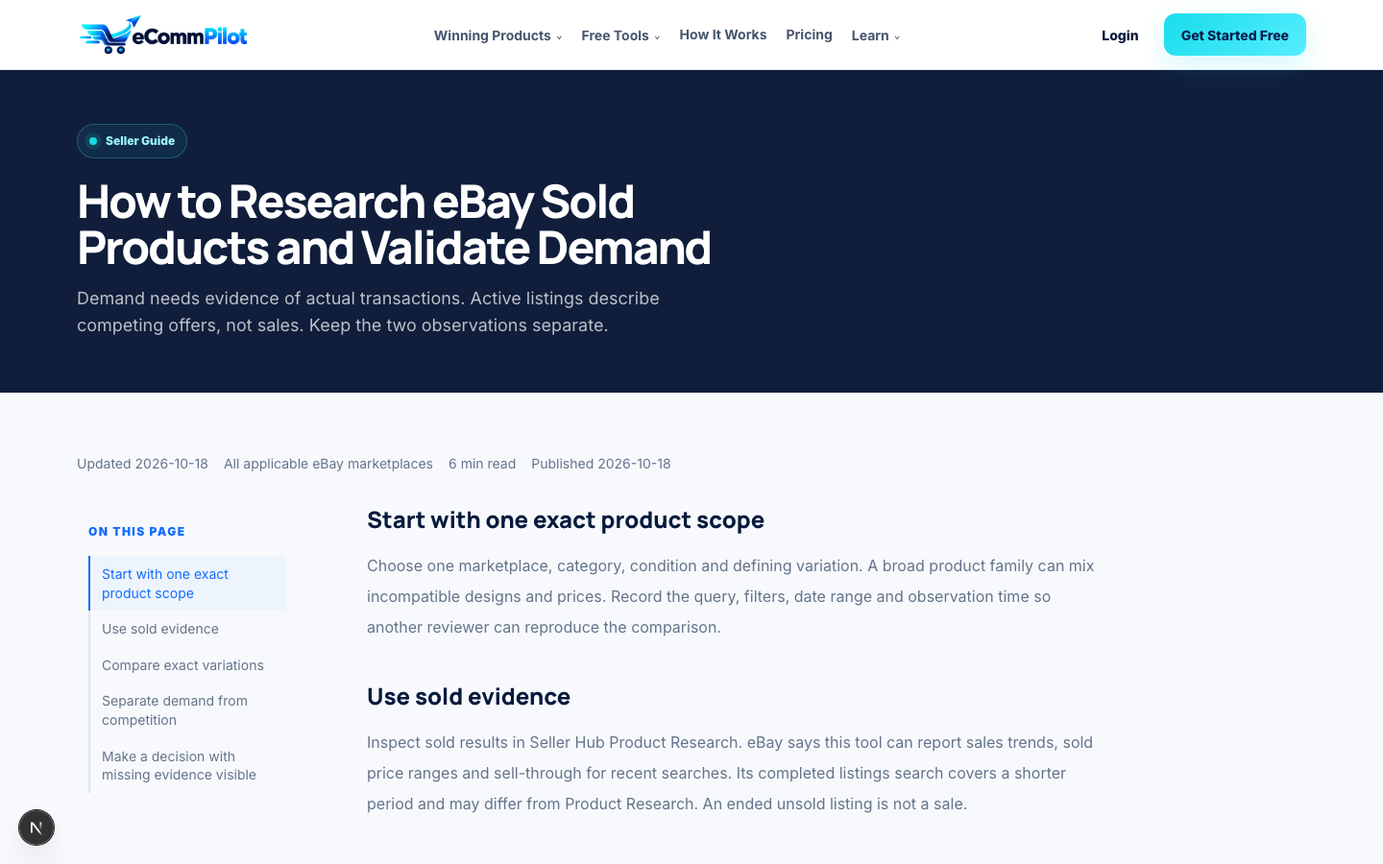
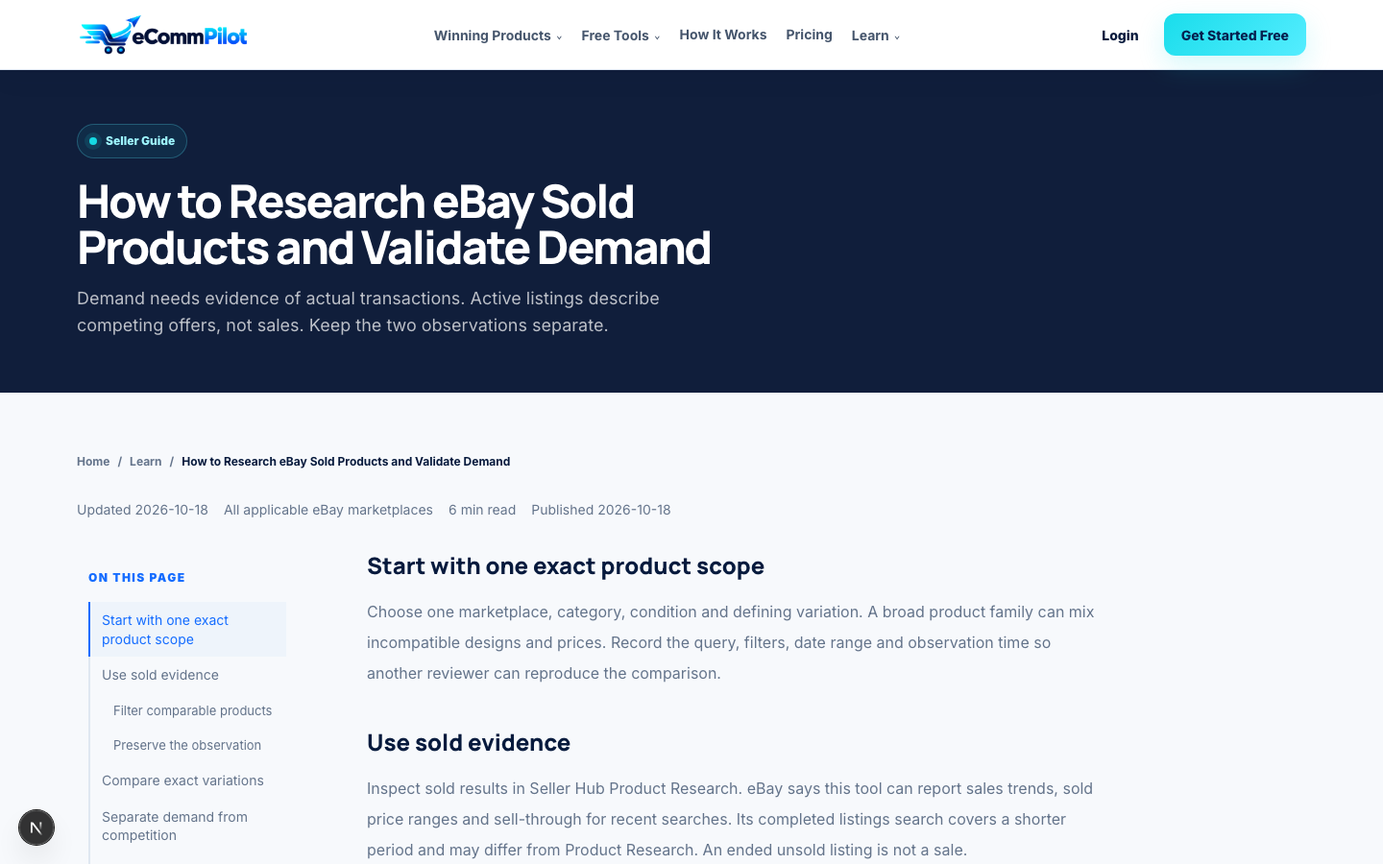
Complete tool guidance and deepen review articles

diff --git a/src/content/growth-guides.ts b/src/content/growth-guides.ts
@@ -8,12 +8,13 @@ export type GrowthGuide = {
   datePublished?: string;
   dateModified: string;
   lead: string;
-  sections: { heading: string; paragraphs: string[]; bullets?: string[] }[];
+  sections: { heading: string; paragraphs: string[]; bullets?: string[]; subsections?: { heading: string; paragraphs: string[] }[]; table?: { caption: string; headers: string[]; rows: string[][] } }[];
   tools: { label: string; href: string }[];
   sources: { label: string; url: string; checkedAt: string }[];
   screenshotRequirements: string[];
   topic: "Research" | "Suppliers" | "Economics";
   readingMinutes: number;
+  processFlow: string[];
 };
 
 // Only owner-approved guides with a genuine publication date may be published.
@@ -22,13 +23,13 @@ export const growthGuides: GrowthGuide[] = [
     slug: "research-ebay-sold-products",
     title: "How to Research eBay Sold Products and Validate Demand",
     description: "A practical evidence trail for sold results, comparable variations and demand checks in the eBay marketplace where you sell.",
-    primaryKeyword: "eBay sold product research", region: "All applicable eBay marketplaces", status: "review", dateModified: "2026-10-18", topic: "Research", readingMinutes: 6,
+    primaryKeyword: "eBay sold product research", region: "All applicable eBay marketplaces", status: "review", dateModified: "2026-10-18", topic: "Research", readingMinutes: 6, processFlow: ["Define exact market and variation", "Verify comparable sold evidence", "Record confidence and decision"],
     lead: "Demand needs evidence of actual transactions. Active listings describe competing offers, not sales. Keep the two observations separate.",
     sections: [
       { heading: "Start with one exact product scope", paragraphs: ["Choose one marketplace, category, condition and defining variation. A broad product family can mix incompatible designs and prices. Record the query, filters, date range and observation time so another reviewer can reproduce the comparison."] },
-      { heading: "Use sold evidence", paragraphs: ["Inspect sold results in Seller Hub Product Research. eBay says this tool can report sales trends, sold price ranges and sell-through for recent searches. Its completed listings search covers a shorter period and may differ from Product Research. An ended unsold listing is not a sale."] },
+      { heading: "Use sold evidence", paragraphs: ["Inspect sold results in Seller Hub Product Research. eBay says this tool can report sales trends, sold price ranges and sell-through for recent searches. Its completed listings search covers a shorter period and may differ from Product Research. An ended unsold listing is not a sale."], subsections: [{ heading: "Filter comparable products", paragraphs: ["Start with the target category, condition, buyer market and any reliable product identifier. Review individual results to exclude accessories, bundles and different designs. Keep a reason for each exclusion rather than silently changing the count."] }, { heading: "Preserve the observation", paragraphs: ["Save a permitted source reference, the search terms, filters, time window and observed time. If a result cannot be reproduced or its variation is unclear, record that limitation beside the demand conclusion."] }] },
       { heading: "Compare exact variations", paragraphs: ["A parent listing can contain different colors, sizes or designs. Attribute sales to the intended variant only where evidence permits it. If the exact variant cannot be resolved, mark the demand result uncertain."] },
-      { heading: "Separate demand from competition", paragraphs: ["Active offers can help evaluate competition, price and delivery. They cannot supply a sold count. Compare the same market, product identity and condition."] },
+      { heading: "Separate demand from competition", paragraphs: ["Active offers can help evaluate competition, price and delivery. They cannot supply a sold count. Compare the same market, product identity and condition.", "Illustrative review: a product family has several active offers, but the sold view does not expose which design sold. You can describe the competitive offers; you cannot claim verified demand for your exact design. Hold that demand input incomplete until better evidence is available."], table: { caption: "Evidence types and the conclusion each supports", headers: ["Observation", "Useful for", "Cannot prove"], rows: [["Comparable sold result", "Past transaction for a comparable item", "Future sales for your listing"], ["Active listing", "Current offer and price context", "A completed sale"], ["Parent listing with hidden variant", "Product-family activity", "Demand for one exact design"]] } },
       { heading: "Make a decision with missing evidence visible", paragraphs: ["Record the sold count or range, period, source, observation time and confidence. When trustworthy sold evidence is unavailable, leave the demand check incomplete. Do not replace it with active listing volume or an AI estimate."], bullets: ["Fix the target market and exact variant.", "Save the filters and observed date.", "Inspect comparable sold results.", "Record uncertainty and exclusions.", "Review active offers separately.", "Recheck before listing."] },
     ],
     tools: [{ label: "Sell-through calculator", href: "/free-tools/ebay-sell-through-rate-calculator" }],
@@ -39,11 +40,11 @@ export const growthGuides: GrowthGuide[] = [
     slug: "verify-aliexpress-supplier-variations",
     title: "How to Verify a Supplier and Match Product Variations for eBay",
     description: "Check exact variant identity, destination-specific shipping and eBay sourcing policy before relying on a supplier offer.",
-    primaryKeyword: "match AliExpress product variations for eBay", region: "All applicable eBay marketplaces", status: "review", dateModified: "2026-10-18", topic: "Suppliers", readingMinutes: 7,
+    primaryKeyword: "match AliExpress product variations for eBay", region: "All applicable eBay marketplaces", status: "review", dateModified: "2026-10-18", topic: "Suppliers", readingMinutes: 7, processFlow: ["Define exact eBay product", "Match supplier variant and destination", "Review policy and recheck"],
     lead: "A supplier offer is useful only when it matches the item researched and can be fulfilled under the seller's stated terms. Similar titles and thumbnails are weak evidence.",
     sections: [
       { heading: "Define the exact item first", paragraphs: ["Record size, material, design, pack quantity and defining item specifics from the eBay-side research. A parent listing may group distinct products; a supplier page may also contain several variants."] },
-      { heading: "Build a variation match table", paragraphs: ["Compare the researched item with the supplier variant selector, image, attributes, price and SKU where shown. Flag every mismatch. A different pack count or design can change listing accuracy and economics."] },
+      { heading: "Build a variation match table", paragraphs: ["Compare the researched item with the supplier variant selector, image, attributes, price and SKU where shown. Flag every mismatch. A different pack count or design can change listing accuracy and economics."], table: { caption: "Illustrative verification record; fill with your own observed facts", headers: ["Field", "eBay-side item", "Supplier-side check"], rows: [["Design", "Exact researched design", "Selected variant photo and label"], ["Size and pack quantity", "Item specifics and title", "Variant attributes and cart summary"], ["Destination", "Buyer market", "Shipping quote for the same market"]] }, subsections: [{ heading: "Compare defining identity fields", paragraphs: ["Put the eBay-side and supplier-side size, material, color, design and pack quantity side by side. A match on a parent product page is insufficient if the selected child variant differs."] }, { heading: "Handle an ambiguous selector", paragraphs: ["If the selector label and photo disagree or the SKU cannot be tied to the intended item, do not mark it verified. Seek another permitted evidence source or hold the product for review."] }] },
       { heading: "Check destination-specific fulfillment", paragraphs: ["Select the buyer destination and exact variant before recording item cost, shipping charge and delivery estimate. Save the observed time. A quote for one country or variant must not be copied to another."] },
       { heading: "Review supplier reliability", paragraphs: ["Examine store history, feedback, product reviews and order evidence in context. Reviews can refer to another variation. Missing evidence remains missing. Verify a standby supplier independently."] },
       { heading: "Check eBay's sourcing policy", paragraphs: ["eBay's dropshipping policy allows fulfillment from a wholesale supplier but says buying from another retailer or marketplace to ship directly to an eBay buyer is not allowed. A product match alone does not establish policy compliance. Review the actual sourcing relationship before listing."] },

diff --git a/src/config/tool-learning.ts b/src/config/tool-learning.ts
@@ -1,0 +1,57 @@
+export type ToolLearning = {
+  steps: readonly string[];
+  mistake: string;
+  faq: readonly { question: string; answer: string }[];
+  source: { label: string; href: string };
+};
+
+const feeSource = { label: "eBay US selling fees", href: "https://www.ebay.com/help/selling-fees/selling/selling-fees?id=4822" };
+const listingSource = { label: "eBay listing guidance", href: "https://www.ebay.com/help/selling/listings" };
+
+export const toolLearning: Record<string, ToolLearning> = {
+  "profit-margin-calculator": {
+    steps: ["Enter the actual listing price and one consistent currency.", "Add the exact supplier variant cost, destination shipping, applicable tax, fees and optional advertising assumptions.", "Read profit, margin and ROI separately; compare the estimate with actual order statements later."],
+    mistake: "Supplier shipping, buyer-paid shipping, fees on the full transaction and returns reserves are often omitted. Label any estimated input.",
+    faq: [{ question: "Is margin the same as ROI?", answer: "No. Margin divides profit by revenue; ROI divides profit by the chosen investment denominator. This tool uses landed supplier cost." }, { question: "Does the tool verify my fee rate?", answer: "No. Confirm your marketplace, category and seller terms before relying on the result." }], source: feeSource,
+  },
+  "title-length-checker": {
+    steps: ["Draft a truthful title for the exact product and variation.", "Check the displayed character count and remove repetition or vague words.", "Review brand, condition and item specifics against the item before listing."],
+    mistake: "A title can fit the character limit while still containing unsupported claims or the wrong variation.",
+    faq: [{ question: "Will a valid length improve ranking?", answer: "No. This tool only counts characters; it does not predict search placement." }, { question: "Does it verify listing policy?", answer: "No. Review the current rules in your eBay listing flow." }], source: listingSource,
+  },
+  "ebay-break-even-calculator": {
+    steps: ["Enter the exact product and fulfillment costs in one currency.", "Add the applicable percentage and fixed fee assumptions.", "Check the first currency increment that covers costs; add a separate profit target if you need one."],
+    mistake: "Break-even is not a recommended selling price. Advertising, refunds, returns and fee tiers can move the real threshold.",
+    faq: [{ question: "Does break-even include a profit target?", answer: "No. It identifies the entered-cost threshold. Choose a separate target profit." }, { question: "Why can the result be unavailable?", answer: "A 100% or greater entered fee rate cannot leave a finite positive amount after percentage fees." }], source: feeSource,
+  },
+  "ebay-promoted-listings-calculator": {
+    steps: ["Calculate the base order profit first.", "Enter an ad percentage or a known fixed advertising cost for the scenario.", "Compare before-ad and after-ad results; reconcile against real eBay advertising charges."],
+    mistake: "Different eBay ad products can use different charging and attribution rules. A hypothetical ad rate is not a forecast of traffic or sales.",
+    faq: [{ question: "Does this predict campaign results?", answer: "No. It shows the arithmetic effect of the ad-cost assumption you enter." }, { question: "Can an accepted Best Offer still incur an ad fee?", answer: "It can under applicable attribution rules. Check your current campaign terms." }], source: { label: "eBay Promoted Listings overview", href: "https://www.ebay.com/help/selling/promoted-listings/promoted-listings-standard?id=5295" },
+  },
+  "ebay-best-offer-calculator": {
+    steps: ["Enter the current listing price and the buyer's offer.", "Add costs, the applicable fee assumptions and the minimum profit you need.", "Compare the offer to the calculated floor before deciding in eBay."],
+    mistake: "A minimum acceptable offer is a financial threshold, not an automatic acceptance rule. Shipping, tax and ad fees may alter the result.",
+    faq: [{ question: "Will this accept or decline offers in eBay?", answer: "No. It is an independent planning tool." }, { question: "Can I counteroffer?", answer: "eBay's Best Offer flow may allow a counteroffer, subject to its current terms." }], source: { label: "eBay Best Offer guidance", href: "https://www.ebay.com/help/selling/listings/listing-basics?id=4144" },
+  },
+  "ebay-shipping-profit-calculator": {
+    steps: ["Use the same product price and fulfillment cost in both scenarios.", "Enter buyer-paid shipping only in the charged-shipping scenario.", "Compare net profit after any fee effect on the amount the buyer pays."],
+    mistake: "Charging shipping adds revenue but can also increase a percentage fee. Supplier freight and the postage paid to fulfill the order are costs in either scenario.",
+    faq: [{ question: "Is free shipping cost-free?", answer: "No. The seller still needs to fund the actual delivery cost." }, { question: "Does eBay charge fees on buyer-paid shipping?", answer: "Fee bases vary by market and category. Check the current local fee terms." }], source: feeSource,
+  },
+  "ebay-sell-through-rate-calculator": {
+    steps: ["Define the exact product, variation, marketplace and evidence period.", "Enter legitimately observed sold results and a comparable active count.", "Interpret the resulting ratio as one demand indicator, with source and observation date recorded separately."],
+    mistake: "Active listings are not sold units. Mixing variants or periods makes the comparison unreliable.",
+    faq: [{ question: "Does this fetch sold data?", answer: "No. It computes a ratio from counts you supply." }, { question: "Is this eBay's official sell-through metric?", answer: "No. It uses the stated sold divided by sold plus active definition; other tools may use another definition." }], source: { label: "eBay Product Research", href: "https://www.ebay.com/help/selling/selling-tools/product-research?id=4853" },
+  },
+  "ebay-image-resizer": {
+    steps: ["Choose an image you have permission to use.", "Set dimensions and format while preserving the product's truthful appearance.", "Download and inspect the result in the actual eBay listing editor."],
+    mistake: "Compression can blur labels or remove metadata, and JPEG cannot preserve transparency. Resizing does not grant image rights.",
+    faq: [{ question: "Are uploads sent to eCommPilot?", answer: "This tool processes the selected image in your browser." }, { question: "Does the tool guarantee eBay compliance?", answer: "No. Check the current image requirements and the final listing preview." }], source: { label: "eBay picture guidance", href: "https://www.ebay.com/help/selling/listings/creating-managing-listings/bulk-listings?id=4148" },
+  },
+  "ebay-html-description-cleaner": {
+    steps: ["Paste a description draft you are permitted to use.", "Review the cleaned markup and visible text before copying it.", "Paste into eBay's editor and inspect the published preview for accuracy and accessibility."],
+    mistake: "Sanitized HTML can still contain incorrect claims or missing product details. It is not a policy or compliance checker.",
+    faq: [{ question: "Does this preserve scripts and embeds?", answer: "No. The tool removes unsafe or unsupported markup using an allowlist." }, { question: "Does this publish a listing?", answer: "No. It only prepares text for manual review and use." }], source: listingSource,
+  },
+};

diff --git a/src/app/learn/[slug]/page.tsx b/src/app/learn/[slug]/page.tsx
@@ -9,7 +9,7 @@ import { breadcrumbSchema, articleSchema } from "@/lib/seo/schema";
 import { buildMetadata } from "@/lib/seo/metadata";
 import { getGrowthGuide, publishedGrowthGuides } from "@/content/growth-guides";
 import { ArticleToc } from "@/components/learn/article-toc";
-import { Callout, ScreenshotFrame } from "@/components/learn/content-blocks";
+import { Callout, ComparisonTable, ProcessFlow, ScreenshotFrame } from "@/components/learn/content-blocks";
 
 type Props = { params: Promise<{ slug: string }> };
 export const dynamicParams = false;
@@ -35,6 +35,7 @@ export default async function GrowthGuidePage({ params }: Props) {
   const guide = getGrowthGuide(slug);
   if (!guide || guide.status !== "published" || !guide.datePublished) notFound();
   const path = `/learn/${guide.slug}`;
+  const related = publishedGrowthGuides().filter((item) => item.slug !== guide.slug).slice(0, 3);
   return (
     <PageShell darkHeader>
       {guide.status === "published" && guide.datePublished ? (
@@ -68,7 +69,7 @@ export default async function GrowthGuidePage({ params }: Props) {
             <span>Published {guide.datePublished}</span>
           </div>
           <div className="article-layout">
-          <ArticleToc entries={guide.sections.map((section, index) => ({ id: `section-${index + 1}`, label: section.heading }))} />
+          <ArticleToc entries={guide.sections.flatMap((section, index) => [{ id: `section-${index + 1}`, label: section.heading, level: 2 as const }, ...(section.subsections ?? []).map((subsection, subIndex) => ({ id: `section-${index + 1}-${subIndex + 1}`, label: subsection.heading, level: 3 as const }))])} />
           <div className="article-content min-w-0">
           {guide.sections.map((section, index) => (
             <section id={`section-${index + 1}`} key={section.heading} className="mb-10">
@@ -76,6 +77,8 @@ export default async function GrowthGuidePage({ params }: Props) {
               {section.paragraphs.map((paragraph) => (
                 <p key={paragraph} className="mb-4 text-base leading-8 text-[var(--muted)]">{paragraph}</p>
               ))}
+              {section.subsections?.map((subsection, subIndex) => <div key={subsection.heading} className="mt-6"><h3 id={`section-${index + 1}-${subIndex + 1}`} className="mb-3 scroll-mt-24 text-xl font-bold text-[var(--navy)]">{subsection.heading}</h3>{subsection.paragraphs.map((paragraph) => <p key={paragraph} className="mb-4 text-base leading-8 text-[var(--muted)]">{paragraph}</p>)}</div>)}
+              {section.table ? <figure className="mb-6"><figcaption className="mb-3 text-sm font-semibold text-[var(--navy)]">{section.table.caption}</figcaption><ComparisonTable headers={section.table.headers} rows={section.table.rows} /></figure> : null}
               {section.bullets ? (
                 <ul className="mb-5 list-disc space-y-2 pl-6 text-base leading-7 text-[var(--muted)]">
                   {section.bullets.map((bullet) => <li key={bullet}>{bullet}</li>)}
@@ -83,7 +86,8 @@ export default async function GrowthGuidePage({ params }: Props) {
               ) : null}
             </section>
           ))}
-          <Callout kind="warning" title="Verify changing marketplace facts">Fee schedules, shipping terms and sourcing policies can change. Check the current local marketplace rules before acting.</Callout>
+          <ProcessFlow title="Research decision flow" stages={guide.processFlow} />
+          <div className="mt-6"><Callout kind="warning" title="Verify changing marketplace facts">Fee schedules, shipping terms and sourcing policies can change. Check the current local marketplace rules before acting.</Callout></div>
           <section className="mt-9">
             <h2 className="text-xl font-bold text-[var(--navy)]">Visual evidence</h2>
             {guide.screenshotRequirements.map((requirement) => <ScreenshotFrame key={requirement} alt={requirement} caption={requirement} />)}
@@ -111,6 +115,8 @@ export default async function GrowthGuidePage({ params }: Props) {
               The examples are educational. Fee schedules, shipping costs and marketplace policies can change. Check the rules for your own marketplace and seller account before acting.
             </p>
           </section>
+          {related.length > 0 ? <section className="mt-8 rounded-2xl border border-[var(--border)] bg-white p-6"><h2 className="text-xl font-bold text-[var(--navy)]">Related guides</h2><ul className="mt-3 grid gap-2">{related.map((item) => <li key={item.slug}><Link href={`/learn/${item.slug}`} className="font-semibold text-[var(--blue)] hover:underline">{item.title} →</Link></li>)}</ul></section> : null}
+          <div className="mt-8 flex flex-wrap gap-3"><Link href="/winning-products" className="button button-primary">Browse Winning Products</Link><Link href="/learn" className="button button-secondary">More seller guidance</Link></div>
           </div>
           </div>
         </div>

diff --git a/src/app/free-tools/[slug]/page.tsx b/src/app/free-tools/[slug]/page.tsx
@@ -1,3 +1,4 @@
+import { ToolLearning } from "@/components/tools/tool-learning";
 import type { Metadata } from "next";
 import Link from "next/link";
 import { notFound } from "next/navigation";
@@ -33,6 +34,7 @@ export default async function ToolPage({ params }: Props) {
     <section className="tool-page-body"><div className="site-container">
       {slug === "ebay-image-resizer" ? <ImageResizer /> : slug === "ebay-html-description-cleaner" ? <HtmlCleaner /> : <AdvancedCalculator slug={slug as Parameters<typeof AdvancedCalculator>[0]["slug"]} />}
       <ToolEditorial slug={slug} />
+      <ToolLearning slug={slug} />
       <div className="mt-10 grid gap-6 rounded-[24px] border border-[var(--border)] bg-white p-6 md:grid-cols-2 md:p-8"><div><h2 className="text-2xl font-extrabold text-[var(--navy)]">Related free tools</h2><div className="mt-4 flex flex-col gap-3">{tool.related.map((related) => { const item = getTool(related); return item ? <Link key={related} href={toolPath(related)} className="font-bold text-[var(--blue)] hover:underline">{item.title} →</Link> : null; })}</div></div><div><h2 className="text-2xl font-extrabold text-[var(--navy)]">Take the next step</h2><p className="mt-3 text-sm leading-7 text-[var(--muted)]">Explore seller guidance and published Winning Products for your market. Product availability reflects the live public catalogue.</p><div className="mt-5 flex flex-wrap gap-3"><Link href="/winning-products" className="button button-primary">Browse Winning Products</Link><Link href="/learn" className="button button-secondary">Seller guides</Link></div></div></div>
     </div></section>
   </PageShell>;

diff --git a/src/components/tools/tool-learning.tsx b/src/components/tools/tool-learning.tsx
@@ -1,0 +1,13 @@
+import { Checklist, Faq } from "@/components/learn/content-blocks";
+import { toolLearning } from "@/config/tool-learning";
+
+export function ToolLearning({ slug }: { slug: string }) {
+  const data = toolLearning[slug];
+  if (!data) return null;
+  return <div className="mt-10 grid min-w-0 grid-cols-[minmax(0,1fr)] gap-5">
+    <section className="feature-card min-w-0"><h2 className="text-2xl font-extrabold text-[var(--navy)]">How to use this tool</h2><div className="mt-4 text-sm leading-7 text-[var(--muted)]"><Checklist items={data.steps} /></div></section>
+    <section className="feature-card min-w-0"><h2 className="text-2xl font-extrabold text-[var(--navy)]">Common mistake</h2><p className="mt-4 text-sm leading-7 text-[var(--muted)]">{data.mistake}</p></section>
+    <section className="feature-card min-w-0"><h2 className="text-2xl font-extrabold text-[var(--navy)]">Questions sellers ask</h2><div className="mt-4"><Faq items={data.faq} /></div></section>
+    <p className="text-xs text-[var(--muted)]">Official reference checked 18 October 2026: <a href={data.source.href} className="text-[var(--blue)] underline">{data.source.label}</a>. Recheck your own market and account terms before acting.</p>
+  </div>;
+}

diff --git a/src/components/learn/content-blocks.tsx b/src/components/learn/content-blocks.tsx
@@ -23,3 +23,6 @@ export function ScreenshotFrame({ caption, alt, src }: { caption: string; alt: s
 export function RelatedLinks({ title, links }: { title: string; links: readonly { label: string; href: string }[] }) {
   return <aside className="feature-card"><h2 className="text-xl font-bold text-[var(--navy)]">{title}</h2><ul className="mt-3 grid gap-2">{links.map((link) => <li key={link.href}><Link href={link.href} className="font-semibold text-[var(--blue)] hover:underline">{link.label} →</Link></li>)}</ul></aside>;
 }
+export function ProcessFlow({ title, stages }: { title: string; stages: readonly string[] }) {
+  return <figure className="rounded-2xl border border-[var(--border)] bg-white p-6"><figcaption className="mb-4 text-lg font-bold text-[var(--navy)]">{title}</figcaption><ol className="grid gap-3 sm:grid-cols-3">{stages.map((stage, index) => <li key={stage} className="rounded-xl border border-[var(--border)] bg-[var(--surface-soft)] p-4 text-sm font-semibold text-[var(--navy)]"><span className="mb-2 block text-xs font-extrabold text-[var(--blue)]">STEP {index + 1}</span>{stage}</li>)}</ol></figure>;
+}

diff --git a/src/components/learn/article-toc.tsx b/src/components/learn/article-toc.tsx
@@ -2,7 +2,7 @@
 
 import { useEffect, useRef, useState } from "react";
 
-type Entry = { id: string; label: string };
+type Entry = { id: string; label: string; level?: 2 | 3 };
 
 export function ArticleToc({ entries }: { entries: readonly Entry[] }) {
   const [active, setActive] = useState(entries[0]?.id ?? "");
@@ -44,7 +44,7 @@ export function ArticleToc({ entries }: { entries: readonly Entry[] }) {
 
   const links = entries.map((entry) => (
     <a key={entry.id} href={`#${entry.id}`} aria-current={active === entry.id ? "location" : undefined}
-      className={`toc-link ${active === entry.id ? "toc-link-active" : ""}`}
+      className={`toc-link ${entry.level === 3 ? "toc-link-nested" : ""} ${active === entry.id ? "toc-link-active" : ""}`}
       onClick={() => setOpen(false)}>{entry.label}</a>
   ));
 

diff --git a/src/app/globals.css b/src/app/globals.css
@@ -996,3 +996,5 @@ textarea.catalog-input {
 .content-callout-pro { border-color:var(--deep-blue); }
 @media(max-width:900px) { .article-layout { display:block; } .article-toc-desktop { display:none; } .article-toc-trigger { display:flex; position:fixed; right:18px; bottom:18px; z-index:60; gap:8px; align-items:center; padding:12px 16px; border-radius:999px; background:var(--navy); color:white; box-shadow:0 8px 28px rgba(7,26,61,.25); } }
 @media(prefers-reduced-motion:reduce) { html { scroll-behavior:auto; } }
+
+.toc-link-nested { padding-left:24px; font-size:13px; }

diff --git a/src/app/free-tools/profit-margin-calculator/page.tsx b/src/app/free-tools/profit-margin-calculator/page.tsx
@@ -1,3 +1,4 @@
+import { ToolLearning } from "@/components/tools/tool-learning";
 import type { Metadata } from "next";
 import { PageShell } from "@/components/site/page-shell";
 import { ProfitMarginCalculator } from "@/components/tools/ep11-calculators";
@@ -39,6 +40,7 @@ export default function Page() {
         <div className="site-container">
           <ProfitMarginCalculator />
           <ToolEditorial slug="profit-margin-calculator" />
+          <ToolLearning slug="profit-margin-calculator" />
         </div>
       </section>
     </PageShell>

diff --git a/src/app/free-tools/title-length-checker/page.tsx b/src/app/free-tools/title-length-checker/page.tsx
@@ -1,3 +1,4 @@
+import { ToolLearning } from "@/components/tools/tool-learning";
 import type { Metadata } from "next";
 import { PageShell } from "@/components/site/page-shell";
 import { TitleLengthChecker } from "@/components/tools/ep11-calculators";
@@ -38,6 +39,7 @@ export default function Page() {
         <div className="site-container">
           <TitleLengthChecker />
           <ToolEditorial slug="title-length-checker" />
+          <ToolLearning slug="title-length-checker" />
         </div>
       </section>
     </PageShell>

diff --git a/docs/EDITORIAL_ROADMAP.md b/docs/EDITORIAL_ROADMAP.md
@@ -4,23 +4,23 @@ Qualitative proposals checked 2026-10-18. Search volume and difficulty are unava
 
 | Priority | Article | Reader and distinct intent | Evidence needed | Preparation |
 |---|---|---|---|---|
-| 1 | Ebay sold product research | eBay seller; sold-demand research guidance | Official source review, real example and relevant screenshots | Medium |
-| 2 | Match aliexpress product variations for ebay | eBay seller; supplier variation verification guidance | Official source review, real example and relevant screenshots | Medium |
-| 3 | Ebay dropshipping policy wholesale supplier | eBay seller; sourcing policy guidance | Official source review, real example and relevant screenshots | Medium |
-| 4 | Ebay active listings versus sold items | eBay seller; evidence distinction guidance | Official source review, real example and relevant screenshots | Medium |
-| 5 | How to match ebay item specifics | eBay seller; listing accuracy guidance | Official source review, real example and relevant screenshots | Medium |
+| 1 | eBay sold product research | eBay seller; sold-demand research guidance | Official source review, real example and relevant screenshots | Medium |
+| 2 | Match AliExpress product variations for eBay | eBay seller; supplier variation verification guidance | Official source review, real example and relevant screenshots | Medium |
+| 3 | eBay dropshipping policy wholesale supplier | eBay seller; sourcing policy guidance | Official source review, real example and relevant screenshots | Medium |
+| 4 | eBay active listings versus sold items | eBay seller; evidence distinction guidance | Official source review, real example and relevant screenshots | Medium |
+| 5 | How to match eBay item specifics | eBay seller; listing accuracy guidance | Official source review, real example and relevant screenshots | Medium |
 | 6 | How to validate supplier shipping to buyers | eBay seller; supplier shipping guidance | Official source review, real example and relevant screenshots | Medium |
-| 7 | How to compare ebay product variations | eBay seller; variation research guidance | Official source review, real example and relevant screenshots | Medium |
-| 8 | Ebay listing photos rights | eBay seller; image rights guidance | Official source review, real example and relevant screenshots | Medium |
+| 7 | How to compare eBay product variations | eBay seller; variation research guidance | Official source review, real example and relevant screenshots | Medium |
+| 8 | eBay listing photos rights | eBay seller; image rights guidance | Official source review, real example and relevant screenshots | Medium |
 | 9 | How to monitor supplier price changes | eBay seller; supplier monitoring guidance | Official source review, real example and relevant screenshots | Medium |
-| 10 | How to review ebay delivery promises | eBay seller; delivery promises guidance | Official source review, real example and relevant screenshots | Medium |
-| 11 | Ebay product research mistakes | eBay seller; research education guidance | Official source review, real example and relevant screenshots | Medium |
-| 12 | How to record actual ebay order profit | eBay seller; order operations guidance | Official source review, real example and relevant screenshots | Medium |
-| 13 | Ebay product demand seasonality | eBay seller; seasonality guidance | Official source review, real example and relevant screenshots | Medium |
-| 14 | Ebay seller returns planning | eBay seller; returns operations guidance | Official source review, real example and relevant screenshots | Medium |
-| 15 | Ebay title optimization | eBay seller; listing education guidance | Official source review, real example and relevant screenshots | Medium |
+| 10 | How to review eBay delivery promises | eBay seller; delivery promises guidance | Official source review, real example and relevant screenshots | Medium |
+| 11 | eBay product research mistakes | eBay seller; research education guidance | Official source review, real example and relevant screenshots | Medium |
+| 12 | How to record actual eBay order profit | eBay seller; order operations guidance | Official source review, real example and relevant screenshots | Medium |
+| 13 | eBay product demand seasonality | eBay seller; seasonality guidance | Official source review, real example and relevant screenshots | Medium |
+| 14 | eBay seller returns planning | eBay seller; returns operations guidance | Official source review, real example and relevant screenshots | Medium |
+| 15 | eBay title optimization | eBay seller; listing education guidance | Official source review, real example and relevant screenshots | Medium |
 | 16 | How to check supplier stock changes | eBay seller; stock monitoring guidance | Official source review, real example and relevant screenshots | Medium |
-| 17 | Ebay category selection for products | eBay seller; category selection guidance | Official source review, real example and relevant screenshots | Medium |
+| 17 | eBay category selection for products | eBay seller; category selection guidance | Official source review, real example and relevant screenshots | Medium |
 | 18 | How to compare eBay buyer locations | eBay seller; market targeting guidance | Official source review, real example and relevant screenshots | Medium |
-| 19 | Ebay listing revision checklist | eBay seller; listing maintenance guidance | Official source review, real example and relevant screenshots | Medium |
+| 19 | eBay listing revision checklist | eBay seller; listing maintenance guidance | Official source review, real example and relevant screenshots | Medium |
 | 20 | How to handle supplier variant changes | eBay seller; supplier change management guidance | Official source review, real example and relevant screenshots | Medium |

diff --git a/docs/SEARCH_INTENT_RESEARCH.md b/docs/SEARCH_INTENT_RESEARCH.md
@@ -1,0 +1,12 @@
+# Search intent spot check — 2026-10-18
+
+This is a qualitative web-result spot check, not a volume, difficulty or ranking report. Search results vary by location, device and personalization. The first release still needs authorized Search Console and broader marketplace-specific SERP review.
+
+| Query | Observed result pattern | Page ownership decision |
+|---|---|---|
+| `ebay fee calculator` | Calculator/tool result pattern, alongside official eBay fee documentation | Keep primary intent on `/free-tools/ebay-fee-estimator`; place formulas, examples and current fee references on the tool page. |
+| `ebay profit calculator` | Multiple interactive calculator pages, including [Taxomate](https://taxomate.com/tools/ebay-profit-calculator), [SellerPricing](https://sellerpricing.com/ebay-profit-calculator) and [Doba](https://www.doba.com/free-tools/ebay-fees-calculator) | Keep primary intent on `/free-tools/profit-margin-calculator`. Remove the separate `How to Calculate eBay Profit` draft. |
+| `how to research sold products on ebay` | Educational walkthroughs such as [ListRodeo](https://listrodeo.com/articles/how-to-find-sold-and-completed-listings-on-ebay/) and [What's It Sold For](https://whatsitsoldfor.com/how-to-see-sold-items-on-ebay/), plus [eBay Product Research](https://www.ebay.com/help/selling/selling-tools/product-research?id=4853) | A practical Learn article is distinct from the sell-through calculator, which only calculates from supplied counts. |
+| `how to match aliexpress variations to ebay listing` | Mixed supplier/listing guidance without a clear interactive calculator requirement in this spot check | Proposed Learn article, pending broader intent validation and policy review. |
+
+The official eBay policy and fee pages linked from content were checked separately. Do not infer search volume, ranking or competitor traffic from this spot check.
